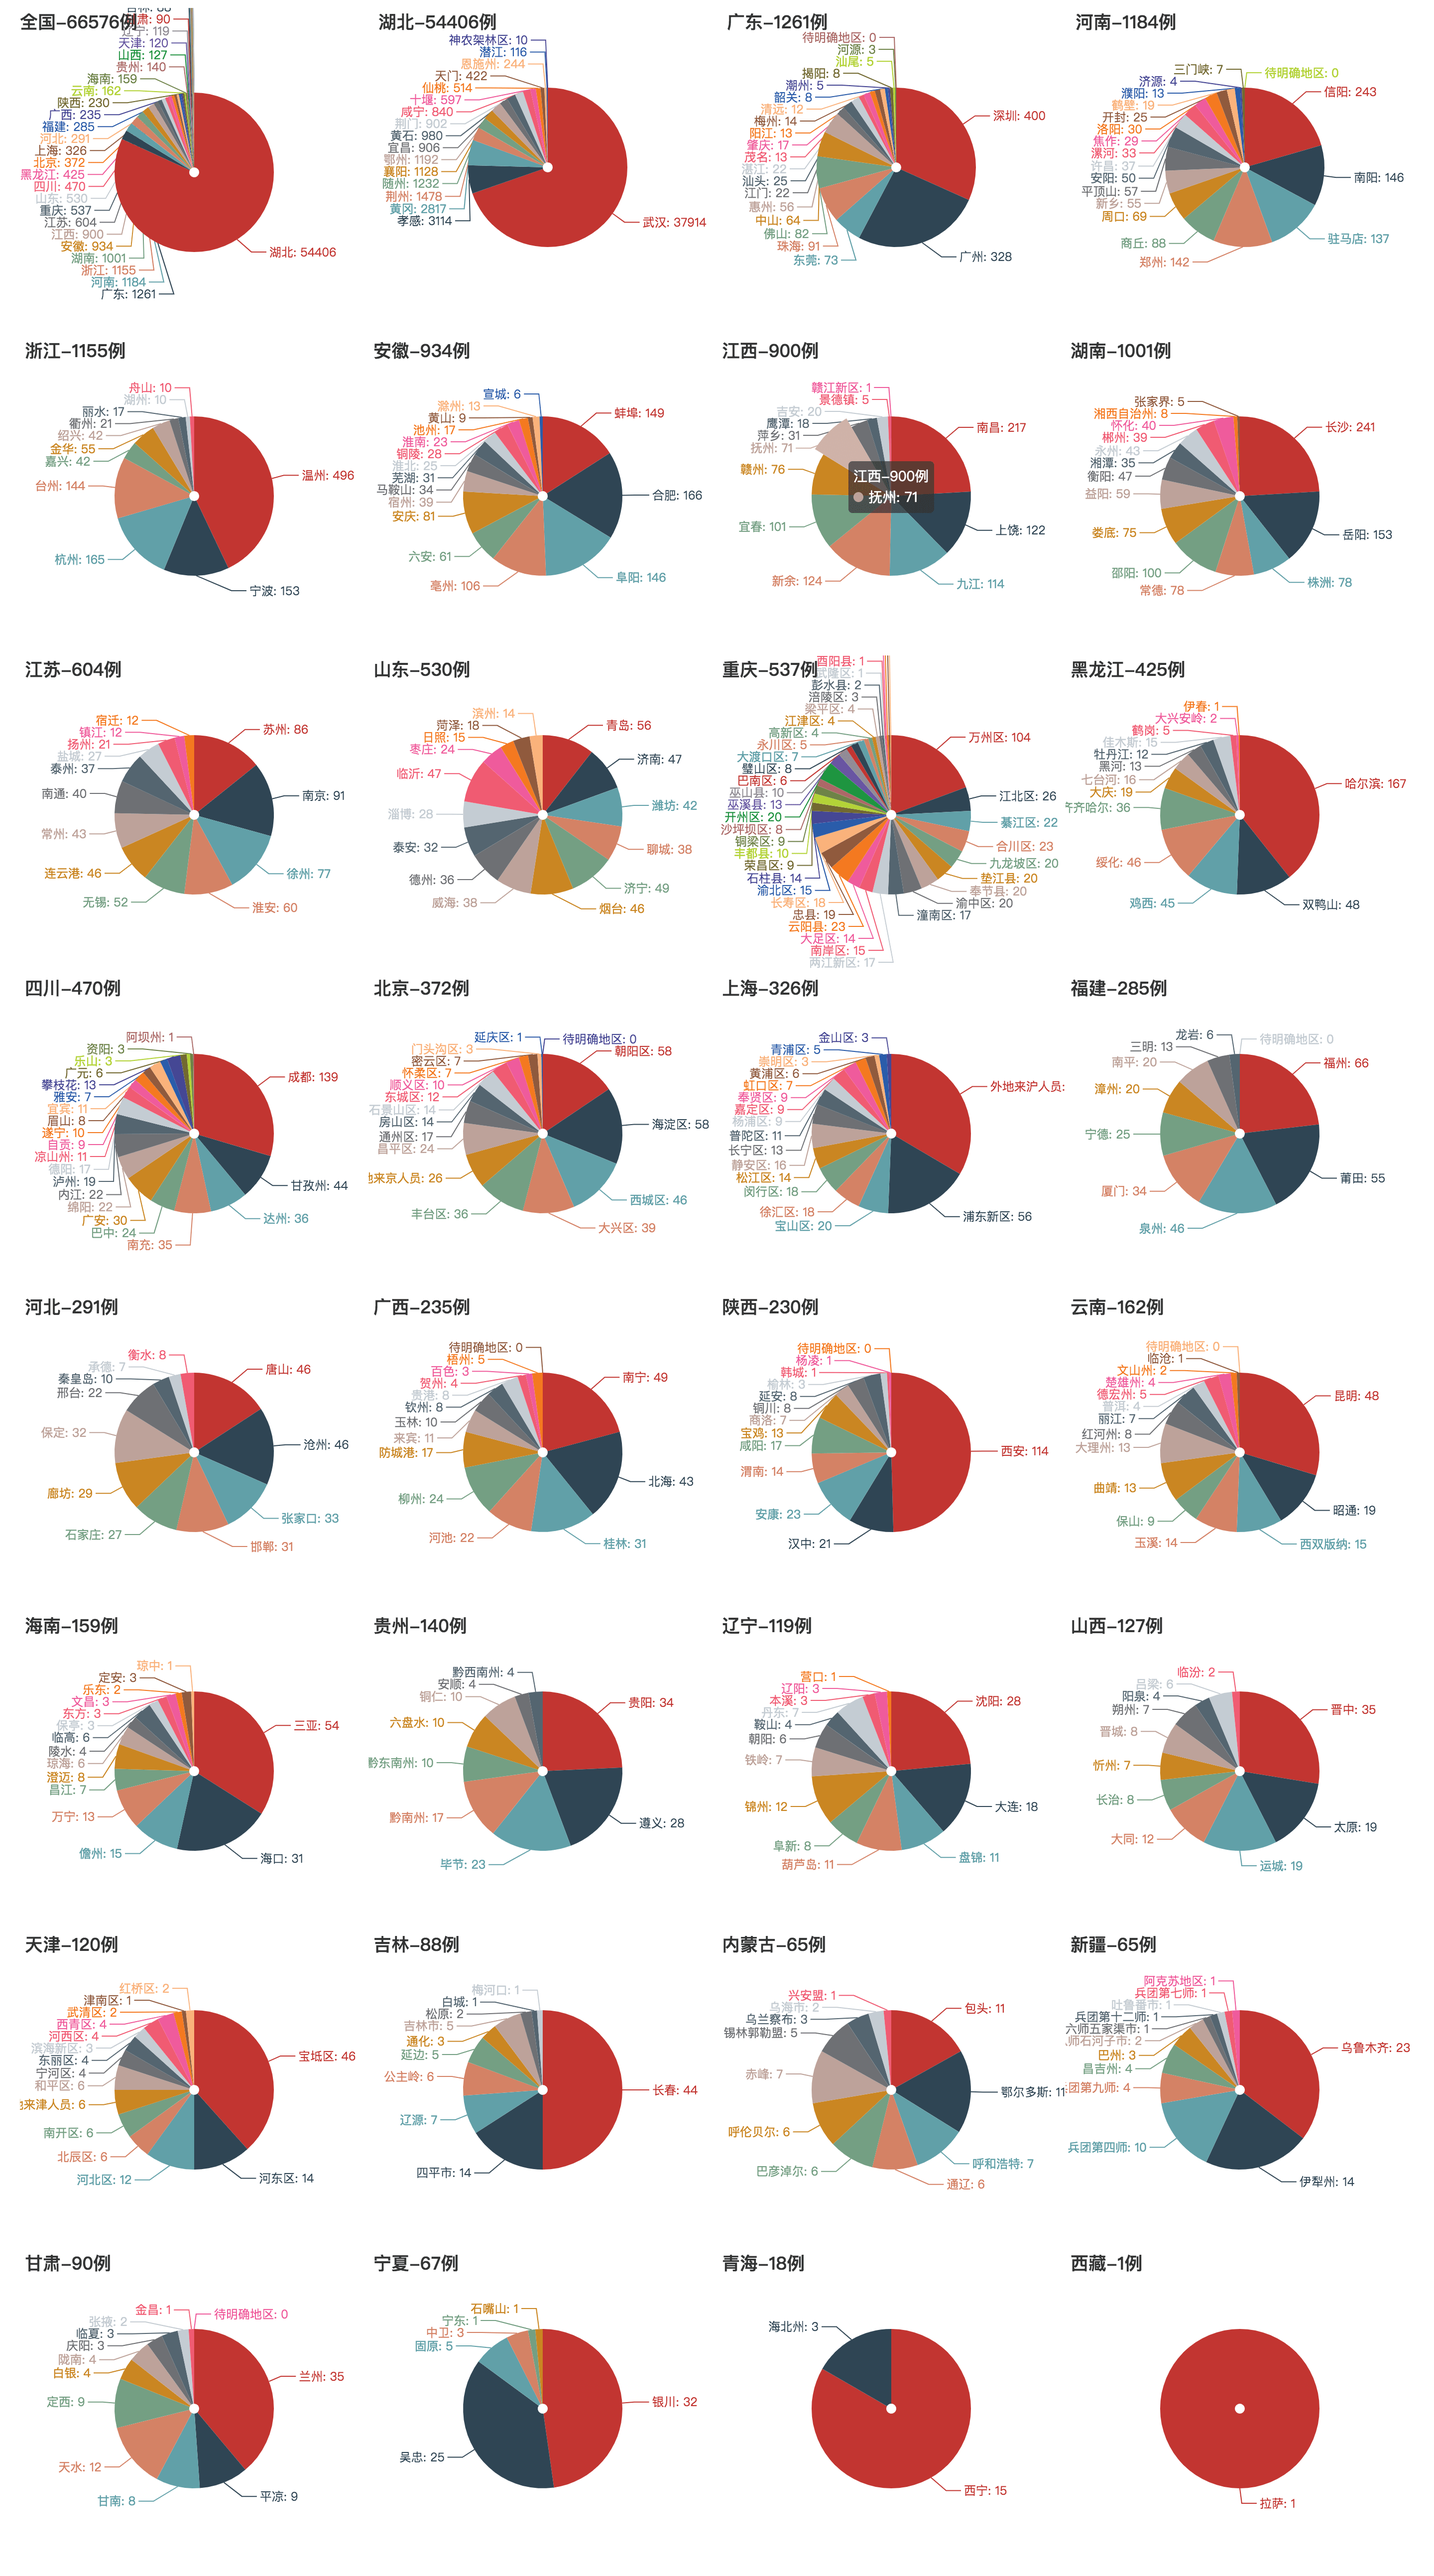
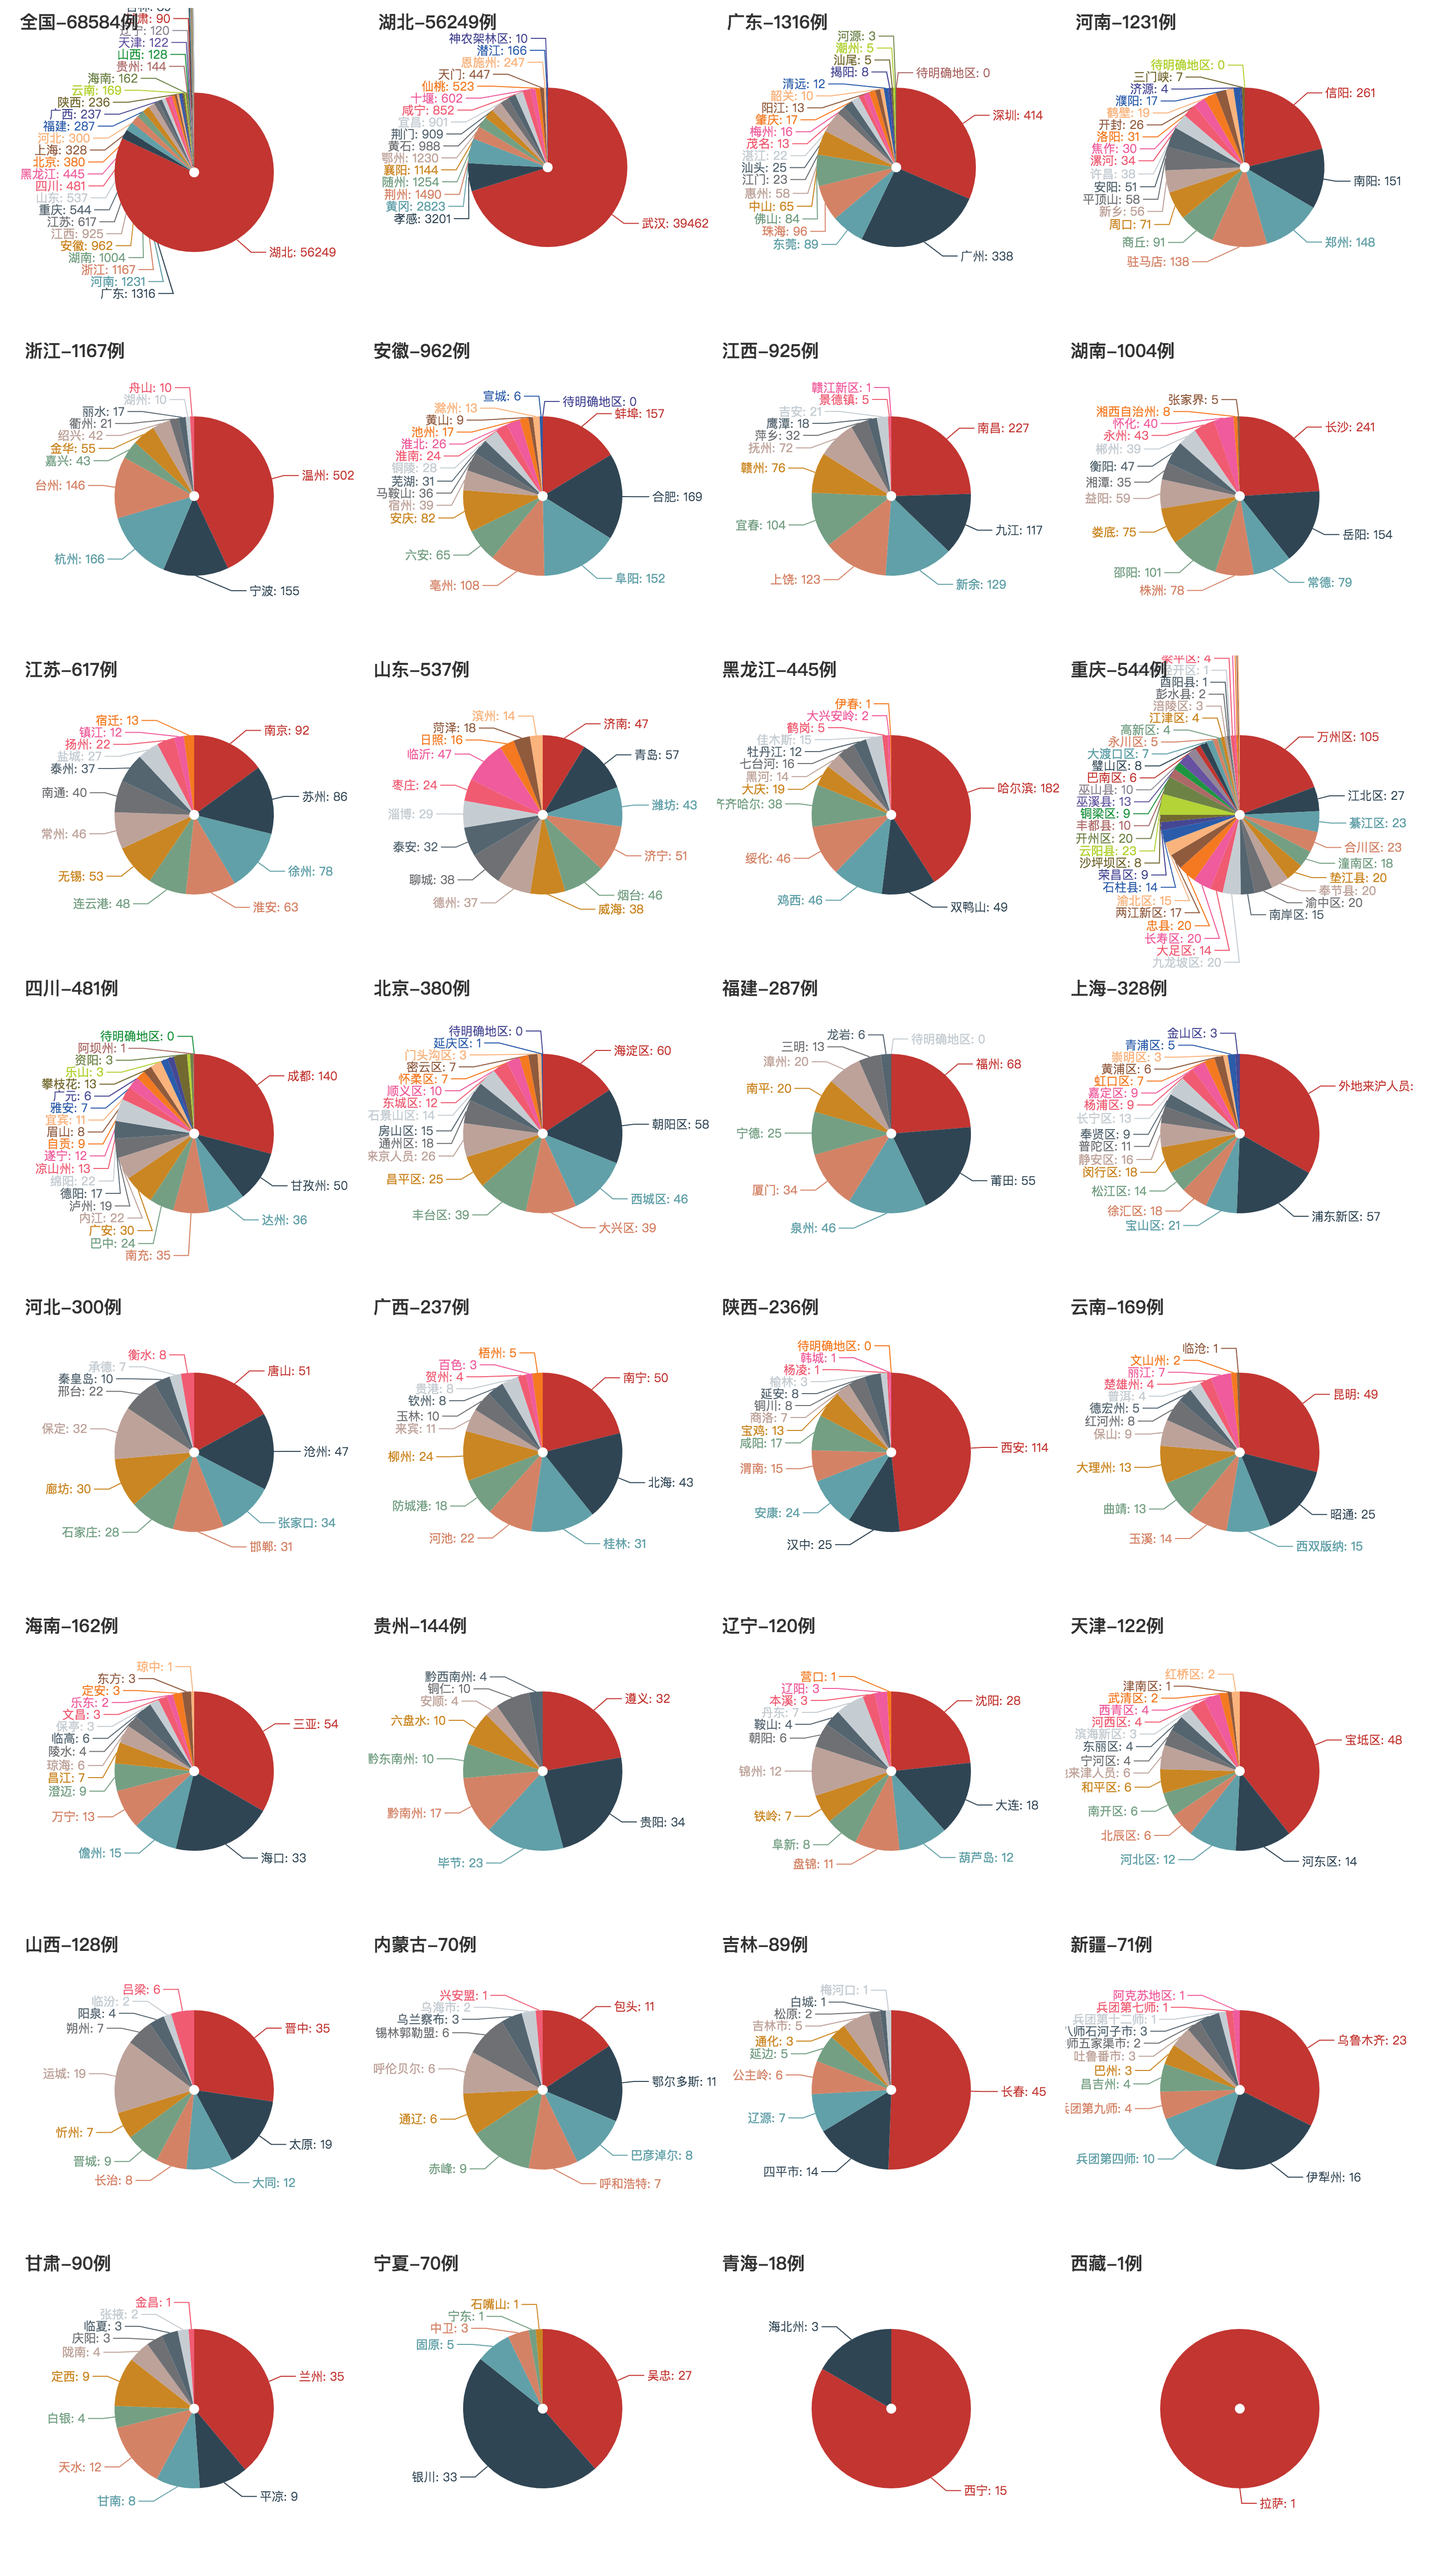
update result

diff --git a/main.py b/main.py
@@ -97,9 +97,9 @@ def draw_tendency(month, day):
     dates = ['1-%d' % i for i in range(22, 31 + 1)]
     dates.extend(['2-%02d' % i for i in range(1, day)])
     v0 = [131, 259, 444, 688, 769, 1771, 1459, 1737, 1982, 2102, 2590, 2829, 3235, 3887, 3143, 3399, 2656, 3062, 2478,
-          2015, 15152, 5090, 2641]
+          2015, 15152, 5090, 2641, 2009]
     v1 = [69, 105, 180, 323, 371, 1291, 840, 1032, 1220, 1347, 1921, 2103, 2345, 3156, 2447, 2841, 2147, 2618, 2097,
-          1638, 14840, 4823, 2420]
+          1638, 14840, 4823, 2420, 1843]
     v2 = [v0[i] - v1[i] for i in range(len(v0))]
     print(v2)
     c = (
@@ -261,7 +261,7 @@ def draw_multiple_pie(month, day):
 
 
 if __name__ == '__main__':
-    m, d = 2, 15
+    m, d = 2, 16
     get_html(m, d)
     draw_tendency(m, d)
     draw_multiple_pie(m, d)

diff --git a/README.md b/README.md
@@ -19,6 +19,7 @@
 - 更新：2020.2.13 09:11 湖北省的确诊标准变了，新增病例骤增了1w5，但愿这是更多人能得到及时治疗的好预兆
 - 更新：2020.2.14 12:19 在新标准下，湖北省的新增病例相比起昨天大幅下降了，其他省份新增确诊持续减少。
 - 更新：2020.2.15 09:16 这几天的下降速度真的很喜人诶。
+- 更新：2020.2.16 10:16 湖北省新增病例连续3天下降，其他省份已经12连降。
 
 # 全国/各省份疫情地图
 ![image](https://github.com/shadow12138/WuHanGanBaDei/blob/master/result/r1.png)
